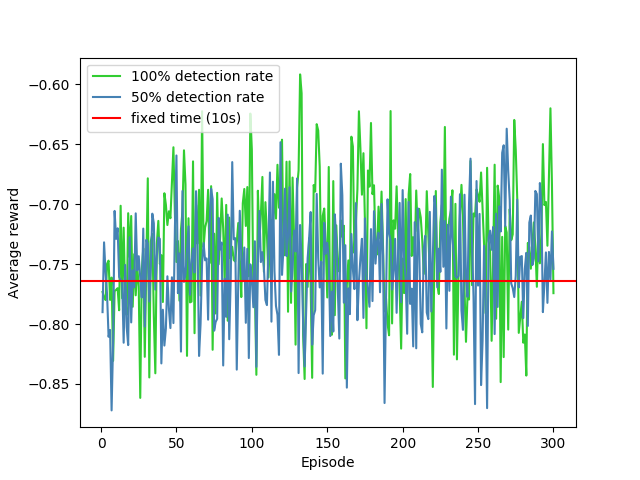
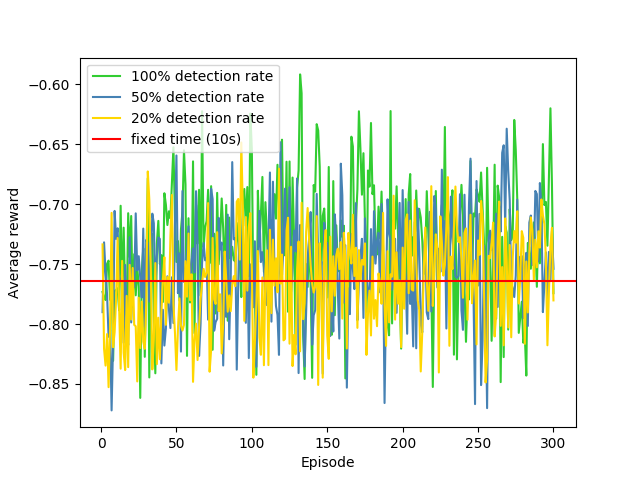
First try with libsumo

Changed region(s): [[0.125, 0.2188, 0.875, 0.8125]]

diff --git a/plot.py b/plot.py
@@ -2,11 +2,11 @@ import matplotlib.pyplot as plt
 import pickle
 
 if __name__ == "__main__":
-    baseline_name = "hor1over30_ver1over45"
-    name1 = "model_hor_30_45_100"
-    name2 = "model_hor_30_45_50"
-    name3 = "model_hor_30_45_20"
-    figure_name = "horizontal_30_45"
+    baseline_name = "hor1over30_ver1over60"
+    name1 = "model_boltz_hor_30_60_100"
+    name2 = "model_boltz_hor_30_60_50"
+    name3 = "model_boltz_hor_30_60_20"
+    figure_name = "horizontal_30_60_boltz"
 
     with open("data/" + name1 + "_episodes.txt", "rb") as file:
         episodes = pickle.load(file)

diff --git a/simulator.py b/simulator.py
@@ -17,7 +17,8 @@ else:
     sys.exit("Environment variable 'SUMO_HOME' has to be declared.")
 
 from sumolib import checkBinary  # Checks for the binary in environ vars
-import traci
+import libsumo as traci
+# import traci
 
 
 def get_options():
